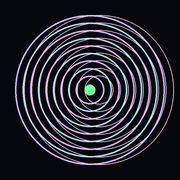
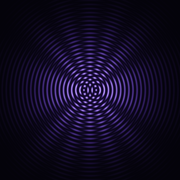
SOO + Sextant-Lock state machine, pull-tab control panels (timing/signal/synth/sextant/visual), 7-band EQ, new moiré home screen glyph

diff --git a/index.html b/index.html
@@ -146,6 +146,28 @@
   #tab-factors{right:0;top:55%;border-right:none;border-radius:10px 0 0 10px;}
   #hud{left:28px !important;} #factors{right:28px !important;}
   .edge-tab:active{background:rgba(40,60,90,0.9);}
+
+  /* SOO pull-tab panel (bottom) */
+  #tab-soo{position:fixed;left:50%;bottom:44px;transform:translateX(-50%);z-index:12;
+    padding:4px 14px;border-radius:10px 10px 0 0;border:1px solid rgba(212,184,255,0.45);border-bottom:none;
+    background:rgba(8,12,20,0.88);color:var(--moire);font:600 10px 'SF Mono',monospace;letter-spacing:.12em;cursor:pointer;}
+  #soo-panel{position:fixed;left:50%;bottom:44px;z-index:13;width:min(560px,92vw);max-height:52vh;overflow:auto;
+    transform:translate(-50%,calc(100% + 60px));transition:transform .35s cubic-bezier(.2,.8,.2,1);
+    background:rgba(8,12,20,0.9);border:1px solid rgba(212,184,255,0.35);border-radius:12px;backdrop-filter:blur(12px);
+    padding:10px 12px;font:10px 'SF Mono',monospace;color:#b8d0ff;display:grid;grid-template-columns:repeat(auto-fill,minmax(160px,1fr));gap:4px 14px;}
+  #soo-panel.open{transform:translate(-50%,-26px);}
+  #soo-panel .soo-state{grid-column:1/-1;color:var(--dim);letter-spacing:.12em;text-transform:uppercase;}
+  #soo-panel .soo-state span{color:var(--moire);font-weight:600;} #soo-panel .ok{color:var(--ok)!important;} #soo-panel .bad{color:var(--bad)!important;}
+  #soo-panel .head{color:var(--dim);letter-spacing:.14em;text-transform:uppercase;font-size:9px;margin:6px 0 3px;border-top:1px solid rgba(120,180,255,0.12);padding-top:5px;}
+  #soo-panel .row{display:flex;justify-content:space-between;align-items:center;gap:8px;margin:2px 0;}
+  #soo-panel .k{color:var(--dim);font-size:9px;} #soo-panel .v{color:var(--text);}
+  #soo-panel input[type=range]{width:100%;accent-color:#d4b8ff;margin:0 0 3px;}
+  #soo-panel select{background:#0d1320;color:var(--text);border:1px solid rgba(120,180,255,.3);border-radius:4px;font:10px 'SF Mono',monospace;}
+  #soo-panel .eq{display:flex;gap:2px;height:56px;align-items:flex-end;}
+  #soo-panel .eq input{writing-mode:vertical-lr;direction:rtl;width:16px;height:52px;}
+  #lockbar{white-space:nowrap;max-width:96vw;overflow:hidden;text-overflow:ellipsis;}
+  #lb-chain.pulse{animation:sentpulse .6s ease-out;}
+  @keyframes sentpulse{0%{color:#7cff9b;text-shadow:0 0 8px #7cff9b;}100%{text-shadow:none;}}
 </style>
 </head>
 <body>
@@ -201,6 +223,8 @@
 </div>
 
 <div id="factors"></div>
+<div id="soo-panel"></div>
+<button id="tab-soo">SOO ▴</button>
 <button id="tab-hud" class="edge-tab" aria-label="Toggle readout panel">‹</button>
 <button id="tab-factors" class="edge-tab" aria-label="Toggle lock panel">›</button>
 
@@ -209,6 +233,7 @@
   <span class="hash" id="lb-hash">—</span><span class="sep">·</span>
   <span id="lb-pert">perturbation: —</span><span class="sep">·</span>
   <span id="lb-secular">secular: —</span><span class="sep">·</span>
+  <span>soo</span> <span class="hash" id="lb-soo">READY</span><span class="sep">·</span>
   <span>sentinel</span> <span class="hash" id="lb-chain">0 · 00000000</span>
 </div>
 
@@ -1917,6 +1942,247 @@ document.getElementById("btn-perm-no").addEventListener("click", () => {
   Audio2.init(); Audio2.resume();
   document.getElementById("permission").classList.add("hidden");
 });
+
+/* ============================================================================
+   SOO + SEXTANT-LOCK + CONTROL PANELS (woven)
+   Inputs are the app's real signals, in radians:
+     horizon = view altitude from daemon.viewLocal (0 without motion)
+     solar   = SolarFrame.alt
+     axis    = sighted latitude (= celestial pole altitude), 0 until sighted
+   vector.radius = |forward gate origin| / leash radius  (1.0 = at the leash)
+   Fixes vs. the draft block:
+     · ONSET→DRAG is time-based (no setTimeout queued every frame)
+     · drag no longer adds +0.6 radius per call (which failed in 2 frames);
+       dragStrength scales relocation (0.6 = unchanged behaviour)
+     · recovery actually moves the gate origin back, then re-arms READY
+     · snapToOrbit returns the corrected angle and a real lock test
+   ========================================================================== */
+const SOO = { state: "READY", orbitLocked: false, sextantLock: false,
+  horizonAngle: 0, solarAngle: 0, axisAngle: 0, orbitAngle: 0,
+  onsetAt: 0, downAt: 0, radius: 0 };
+const TimingPanel    = { tempo: 120, swing: 0.3, onsetBuffer: 350, tapWindow: 0.25, quantize: false };
+const SignalDynamics = { dragStrength: 0.6, perturbationNoise: 0.4, recoveryRate: 0.08 };
+const SynthEngine    = { droneWave: "sine", eq: [0.2, 0.4, 0.5, 0.3, 0.1, 0.2, 0.4],
+                         modulationDepth: 0.6, curvatureToPitch: true };
+const SextantPanel   = { horizonLock: true, solarBandPredict: true, axisSpine: true, curvatureMagnification: 1.8 };
+const VisualPanel    = { orbitView: true, perturbationField: true, sentinelPulse: true, solarBandOverlay: true };
+
+function sooSetState(s, why) {
+  if (SOO.state === s) return;
+  const from = SOO.state; SOO.state = s;
+  const fn = s === "FAILURE" ? sreject : slog;
+  if (s === "FAILURE") fn("soo:state", "escaped leash", { from, radius_milli: S_milli(SOO.radius) });
+  else fn("soo:state", { from, to: s, why: why || "" });
+}
+
+function sextantLock(horizon, solar, axis) {
+  const k = 0.15, gate = SignalDynamics.perturbationNoise * 0.01;   // noise gate (rad)
+  const ease = (cur, x) => Math.abs(x - cur) < gate ? cur : cur * (1 - k) + x * k;
+  SOO.horizonAngle = ease(SOO.horizonAngle, SextantPanel.horizonLock ? horizon : 0);
+  SOO.solarAngle   = ease(SOO.solarAngle,   SextantPanel.solarBandPredict ? solar : 0);
+  SOO.axisAngle    = ease(SOO.axisAngle,    SextantPanel.axisSpine ? axis : 0);
+  SOO.sextantLock = SextantPanel.horizonLock || SextantPanel.solarBandPredict || SextantPanel.axisSpine;
+}
+
+function snapToOrbit() {
+  if (!SOO.sextantLock) { SOO.orbitLocked = false; return SOO.orbitAngle; }
+  const target = SOO.solarAngle - SOO.horizonAngle;
+  SOO.orbitAngle += (target - SOO.orbitAngle) * 0.12;           // eased approach, no jitter
+  const was = SOO.orbitLocked;
+  SOO.orbitLocked = Math.abs(target - SOO.orbitAngle) < 0.01;
+  if (SOO.orbitLocked !== was) slog("soo:orbit", { locked: SOO.orbitLocked, angle_mrad: S_milli(SOO.orbitAngle) });
+  return SOO.orbitAngle;
+}
+
+function dragVector(now) {
+  if (SOO.state === "ONSET" && now - SOO.onsetAt >= TimingPanel.onsetBuffer) sooSetState("DRAG", "onset elapsed");
+  if (SOO.state === "DRAG" && SOO.radius > 1.0) sooSetState("FAILURE");
+}
+
+function recovery() {
+  if (SOO.state !== "FAILURE" && SOO.state !== "RECOVERY") return;
+  if (SOO.state === "FAILURE") sooSetState("RECOVERY", "pullback");
+  const k = 1 - SignalDynamics.recoveryRate;
+  for (const g of mirrorOn ? [GateF, GateM] : [GateF]) { g.originX *= k; g.originY *= k; }
+  if (SOO.radius <= 0.1) sooSetState("READY", "recovered");
+}
+
+function updateSOO(now) {
+  const v = daemon.viewLocal;
+  const horizon = v ? Math.asin(clamp(v.u, -1, 1)) : 0;
+  const axis = Observer.sighted ? Observer.lat * DEG : 0;
+  SOO.radius = Math.hypot(GateF.originX, GateF.originY) / leashMax();
+  sextantLock(horizon, SolarFrame.alt || 0, axis);
+  snapToOrbit();
+  dragVector(now);
+  recovery();
+}
+
+/* Pointer → SOO. ONSET suppresses gate firing (fixes the instant-escape jump). */
+canvas.addEventListener("pointerdown", () => {
+  if (SOO.state === "READY" || SOO.state === "TAP") {
+    SOO.onsetAt = SOO.downAt = performance.now(); sooSetState("ONSET", "pointerdown");
+  }
+});
+canvas.addEventListener("pointerup", () => {
+  const held = performance.now() - SOO.downAt;
+  if (SOO.state === "ONSET" && held <= TimingPanel.tapWindow * 1000) {
+    sooSetState("TAP", "short press"); setTimeout(() => { if (SOO.state === "TAP") sooSetState("READY", "tap done"); }, 120);
+  } else if (SOO.state === "ONSET" || SOO.state === "DRAG") sooSetState("READY", "release");
+});
+{
+  const tickF = GateF.tick.bind(GateF), tickM = GateM.tick.bind(GateM);
+  GateF.tick = function () { if (SOO.state !== "ONSET" && SOO.state !== "RECOVERY") tickF(); };
+  GateM.tick = function () { if (SOO.state !== "ONSET" && SOO.state !== "RECOVERY") tickM(); };
+}
+setInterval(() => updateSOO(performance.now()), 33);
+
+/* Drag strength scales relocation; 0.6 is neutral */
+{
+  const base = relocationOffset;
+  relocationOffset = function (a, c) {
+    const o = base(a, c), s = SignalDynamics.dragStrength / 0.6; return { dx: o.dx * s, dy: o.dy * s };
+  };
+}
+
+/* Synth: waveform, modulation depth, curvature→pitch, 7-band EQ on the master bus */
+const SOO_EQ_HZ = [60, 150, 400, 1000, 2400, 6000, 12000];
+let sooEq = null;
+function sooAudioWire() {
+  if (!Audio2.ctx || sooEq) return;
+  const c = Audio2.ctx;
+  sooEq = SOO_EQ_HZ.map((f, i) => { const b = c.createBiquadFilter();
+    b.type = i === 0 ? "lowshelf" : i === 6 ? "highshelf" : "peaking"; b.frequency.value = f; b.Q.value = 1.1; return b; });
+  Audio2.master.disconnect();
+  Audio2.master.connect(sooEq[0]);
+  for (let i = 0; i < 6; i++) sooEq[i].connect(sooEq[i + 1]);
+  sooEq[6].connect(c.destination);
+  sooAudioApply();
+}
+function sooAudioApply() {
+  if (sooEq) sooEq.forEach((b, i) => b.gain.value = (SynthEngine.eq[i] - 0.3) * 24);   // 0.3 = flat, ±~17 dB
+  Audio2.moireOsc.forEach(o => { o.type = SynthEngine.droneWave; });
+}
+{
+  const baseDrone = Audio2.updateDrone.bind(Audio2);
+  Audio2.updateDrone = function () {
+    sooAudioWire(); baseDrone();
+    if (!this.enabled || !this.ctx) return;
+    const t = this.ctx.currentTime, depth = SynthEngine.modulationDepth / 0.6;       // 0.6 = original depth
+    const c = (GateF.currentCoherence + GateM.currentCoherence) / 2;
+    const curv = SynthEngine.curvatureToPitch ? SOO.orbitAngle * SextantPanel.curvatureMagnification * 0.1 : 0;
+    const hz = 110 * (1 + c * 0.02 * depth) * (1 + curv);
+    const ratio = omegaB() / omegaA();
+    this.moireOsc.forEach((o, i) => { o.frequency.cancelScheduledValues(t);
+      o.frequency.linearRampToValueAtTime(i === 0 ? hz : hz * ratio, t + 0.12); });
+  };
+  /* Tempo/swing quantize ring tones to a swung 16th grid when enabled */
+  const baseTone = Audio2.ringTone.bind(Audio2);
+  Audio2.ringTone = function (ring) {
+    if (!TimingPanel.quantize || !this.ctx) return baseTone(ring);
+    const step = 60 / TimingPanel.tempo / 4, t = this.ctx.currentTime;
+    let n = Math.ceil(t / step), at = n * step;
+    if (n % 2) at += step * TimingPanel.swing;
+    setTimeout(() => baseTone(ring), Math.max(0, (at - t) * 1000));
+  };
+}
+
+/* Visual overlays (drawn on top of the pad each frame) */
+function drawSOO() {
+  const w = canvas.width, h = canvas.height, cx = w / 2, cy = h / 2, R = Math.min(w, h) * 0.42;
+  const dpr = 1;   // canvas is in CSS px
+  ctx.save();
+  if (VisualPanel.perturbationField) {
+    const r = leashMax() * dpr, t = clamp(SOO.radius, 0, 1.2);
+    ctx.strokeStyle = SOO.state === "FAILURE" || SOO.state === "RECOVERY" ? "rgba(255,112,112,0.55)" : `rgba(142,197,255,${0.08 + t * 0.3})`;
+    ctx.setLineDash([3 * dpr, 7 * dpr]); ctx.lineWidth = 1 * dpr;
+    ctx.beginPath(); ctx.arc(cx, cy, r, 0, TAU); ctx.stroke(); ctx.setLineDash([]);
+  }
+  if (VisualPanel.solarBandOverlay) {
+    const a = -SOO.solarAngle - Math.PI / 2;
+    ctx.strokeStyle = "rgba(255,212,132,0.35)"; ctx.lineWidth = 6 * dpr;
+    ctx.beginPath(); ctx.arc(cx, cy, R * 1.04, a - 0.12, a + 0.12); ctx.stroke();
+  }
+  if (VisualPanel.orbitView) {
+    const a = -SOO.orbitAngle * SextantPanel.curvatureMagnification - Math.PI / 2;
+    ctx.strokeStyle = SOO.orbitLocked ? "rgba(124,255,155,0.8)" : "rgba(212,184,255,0.6)";
+    ctx.lineWidth = 2 * dpr; ctx.beginPath(); ctx.arc(cx, cy, R * 0.92, a - 0.25, a + 0.25); ctx.stroke();
+    ctx.fillStyle = ctx.strokeStyle; ctx.beginPath();
+    ctx.arc(cx + Math.cos(a) * R * 0.92, cy + Math.sin(a) * R * 0.92, 3.5 * dpr, 0, TAU); ctx.fill();
+    if (SextantPanel.axisSpine && SOO.axisAngle) {
+      const s = -SOO.axisAngle - Math.PI / 2;
+      ctx.strokeStyle = "rgba(142,255,255,0.35)"; ctx.lineWidth = 1 * dpr; ctx.beginPath();
+      ctx.moveTo(cx - Math.cos(s) * R * 0.3, cy - Math.sin(s) * R * 0.3); ctx.lineTo(cx + Math.cos(s) * R, cy + Math.sin(s) * R); ctx.stroke();
+    }
+  }
+  ctx.restore();
+}
+{
+  const baseReticle = drawReticle;
+  drawReticle = function () { drawSOO(); baseReticle(); };
+}
+{
+  const baseAppend = Sentinel.onAppend;
+  Sentinel.onAppend = e => { baseAppend(e);
+    if (!VisualPanel.sentinelPulse) return;
+    const el = document.getElementById("lb-chain"); if (!el) return;
+    el.classList.remove("pulse"); void el.offsetWidth; el.classList.add("pulse"); };
+}
+
+/* Pull-tab control panel (bottom) */
+const SooUI = {
+  build() {
+    const root = document.getElementById("soo-panel");
+    const sections = [
+      ["Timing", TimingPanel, { tempo: [40, 240, 1], swing: [0, 0.75, 0.01], onsetBuffer: [0, 1000, 10], tapWindow: [0.05, 0.6, 0.01] }],
+      ["Signal dynamics", SignalDynamics, { dragStrength: [0.1, 1.5, 0.01], perturbationNoise: [0, 1, 0.01], recoveryRate: [0.01, 0.3, 0.01] }],
+      ["Synth engine", SynthEngine, { modulationDepth: [0, 1.5, 0.01] }],
+      ["Sextant", SextantPanel, { curvatureMagnification: [0.5, 4, 0.1] }],
+      ["Visual", VisualPanel, {}],
+    ];
+    const h = [`<div class="soo-state">SOO <span id="soo-st">READY</span> · orbit <span id="soo-orb">—</span></div>`];
+    for (const [title, obj, ranges] of sections) {
+      h.push(`<div class="sec"><div class="head">${title}</div>`);
+      for (const [k, v] of Object.entries(obj)) {
+        const id = `soo-${title[0]}-${k}`;
+        if (typeof v === "boolean") h.push(`<label class="row"><span class="k">${k}</span><input type="checkbox" id="${id}" ${v ? "checked" : ""}></label>`);
+        else if (k === "droneWave") h.push(`<label class="row"><span class="k">${k}</span><select id="${id}">${["sine", "triangle", "square", "sawtooth"].map(o => `<option ${o === v ? "selected" : ""}>${o}</option>`).join("")}</select></label>`);
+        else if (k === "eq") h.push(`<div class="row"><span class="k">eq</span></div><div class="eq">${v.map((x, i) => `<input type="range" class="eqb" orient="vertical" id="${id}-${i}" min="0" max="1" step="0.01" value="${x}" title="${SOO_EQ_HZ[i]} Hz">`).join("")}</div>`);
+        else if (ranges[k]) { const [a, b, s] = ranges[k];
+          h.push(`<div class="row"><span class="k">${k}</span><span class="v" id="${id}-v">${v}</span></div><input type="range" id="${id}" min="${a}" max="${b}" step="${s}" value="${v}">`); }
+      }
+      h.push(`</div>`);
+    }
+    root.innerHTML = h.join("");
+    for (const [title, obj] of sections) for (const k of Object.keys(obj)) {
+      const id = `soo-${title[0]}-${k}`, log = (value) => { clearTimeout(SooUI._t[id]);
+        SooUI._t[id] = setTimeout(() => slog("soo:set", { panel: title, key: k, value: String(value) }), 400); };
+      if (k === "eq") obj.eq.forEach((_, i) => document.getElementById(`${id}-${i}`).addEventListener("input", e => {
+        obj.eq[i] = parseFloat(e.target.value); sooAudioApply(); log(obj.eq.join(",")); }));
+      const el = document.getElementById(id); if (!el) continue;
+      el.addEventListener(el.type === "checkbox" || el.tagName === "SELECT" ? "change" : "input", () => {
+        const val = el.type === "checkbox" ? el.checked : el.tagName === "SELECT" ? el.value : parseFloat(el.value);
+        obj[k] = val; const out = document.getElementById(id + "-v"); if (out) out.textContent = val;
+        sooAudioApply(); log(val);
+      });
+    }
+  },
+  _t: {},
+  status() {
+    const s = document.getElementById("soo-st"), o = document.getElementById("soo-orb");
+    if (s) { s.textContent = SOO.state; s.className = SOO.state === "FAILURE" || SOO.state === "RECOVERY" ? "bad" : SOO.state === "READY" ? "ok" : ""; }
+    if (o) o.textContent = SOO.orbitLocked ? "locked" : (SOO.orbitAngle * RAD).toFixed(1) + "°";
+    const lb = document.getElementById("lb-soo"); if (lb) lb.textContent = SOO.state;
+  },
+};
+SooUI.build();
+setInterval(() => SooUI.status(), 150);
+{
+  const p = document.getElementById("soo-panel"), t = document.getElementById("tab-soo");
+  const set = open => { p.classList.toggle("open", open); t.textContent = open ? "SOO ▾" : "SOO ▴"; };
+  t.addEventListener("click", () => { const o = !p.classList.contains("open"); set(o); slog("panel:soo", { open: o }); });
+  set(false);
+}
 
 /* Ring → audio */
 const logRing = r => slog("ring", { gate: r.mirrored ? "mirror" : "forward", id: r.id, parent: r.parentId,

diff --git a/sw.js b/sw.js
@@ -1,5 +1,5 @@
 // Offline cache: the app makes no network calls, so cache-first is safe.
-const CACHE = "invarianttap-v2";
+const CACHE = "invarianttap-v3";
 const FILES = ["./", "./index.html", "./sentinel_dot.js", "./manifest.webmanifest", "./icon-180.png", "./icon-192.png", "./icon-512.png"];
 self.addEventListener("install", e => { e.waitUntil(caches.open(CACHE).then(c => c.addAll(FILES)).catch(() => {})); self.skipWaiting(); });
 self.addEventListener("activate", e => e.waitUntil(caches.keys().then(ks =>

diff --git a/README.md b/README.md
@@ -59,3 +59,14 @@ pytest -q tests
 ## Changes vs. the uploaded build
 
 - Fixed a pre-existing crash: `phase_A` / `phase_B` read `slice[0].x` on an empty slice when `findConvergence` probed plane 0, throwing on every gate tick early in a drag. Both now return 0 for slices shorter than 3 samples.
+
+## SOO + Sextant-Lock
+
+A bottom pull-tab (**SOO ▴**) opens the SOO control panels: Timing, Signal dynamics, Synth engine, Sextant, Visual.
+
+- **State machine** `READY → ONSET → DRAG → FAILURE → RECOVERY → READY` (plus `TAP` for presses shorter than `tapWindow`). ONSET holds gate firing for `onsetBuffer` ms, which stops the instant-escape jump on touch. FAILURE triggers when the forward origin passes the leash radius; RECOVERY pulls the origins back by `recoveryRate` per tick and re-arms at 10% of the leash.
+- **Sextant-lock** eases three real inputs: horizon (view altitude), solar (sun altitude), axis (sighted latitude). `perturbationNoise` is a noise gate on those inputs. **Snap-to-orbit** eases toward `solar − horizon` and reports a lock within 0.01 rad.
+- **Synth**: drone waveform, modulation depth, curvature→pitch, a 7-band EQ on the master bus (0.3 = flat), and optional tempo/swing quantize of ring tones.
+- **Visual**: orbit arc, leash field, solar-band marker, sentinel pulse on each new log entry.
+- Every state change, orbit lock and panel edit is written to the sentinel_dot chain; FAILURE is logged as a rejection.
+- Defaults (dragStrength 0.6, modulationDepth 0.6, quantize off) leave the original pad behaviour unchanged.
